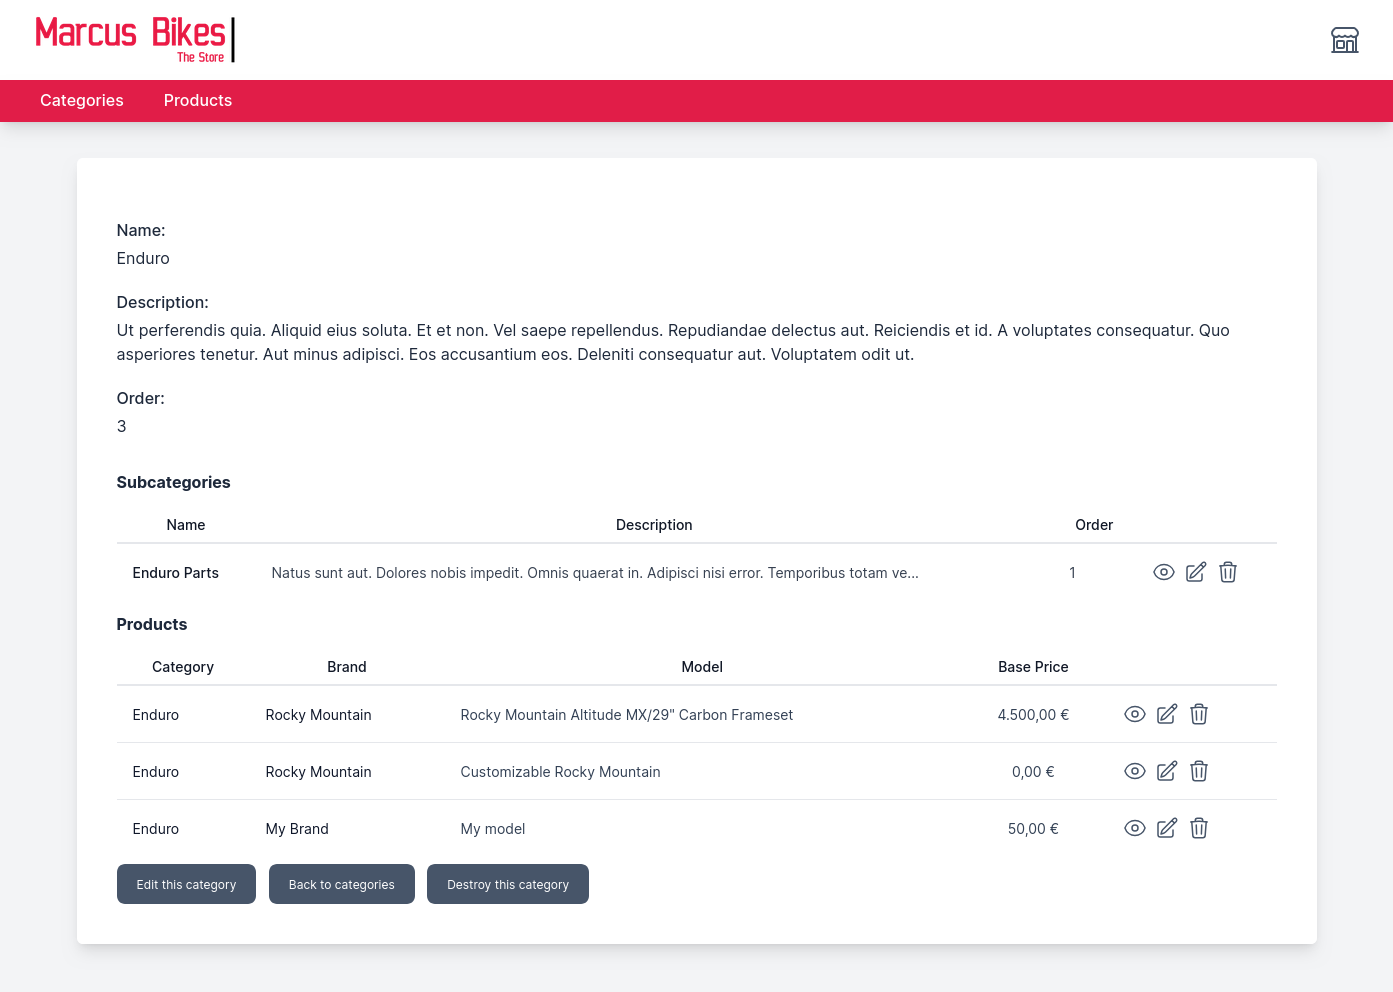
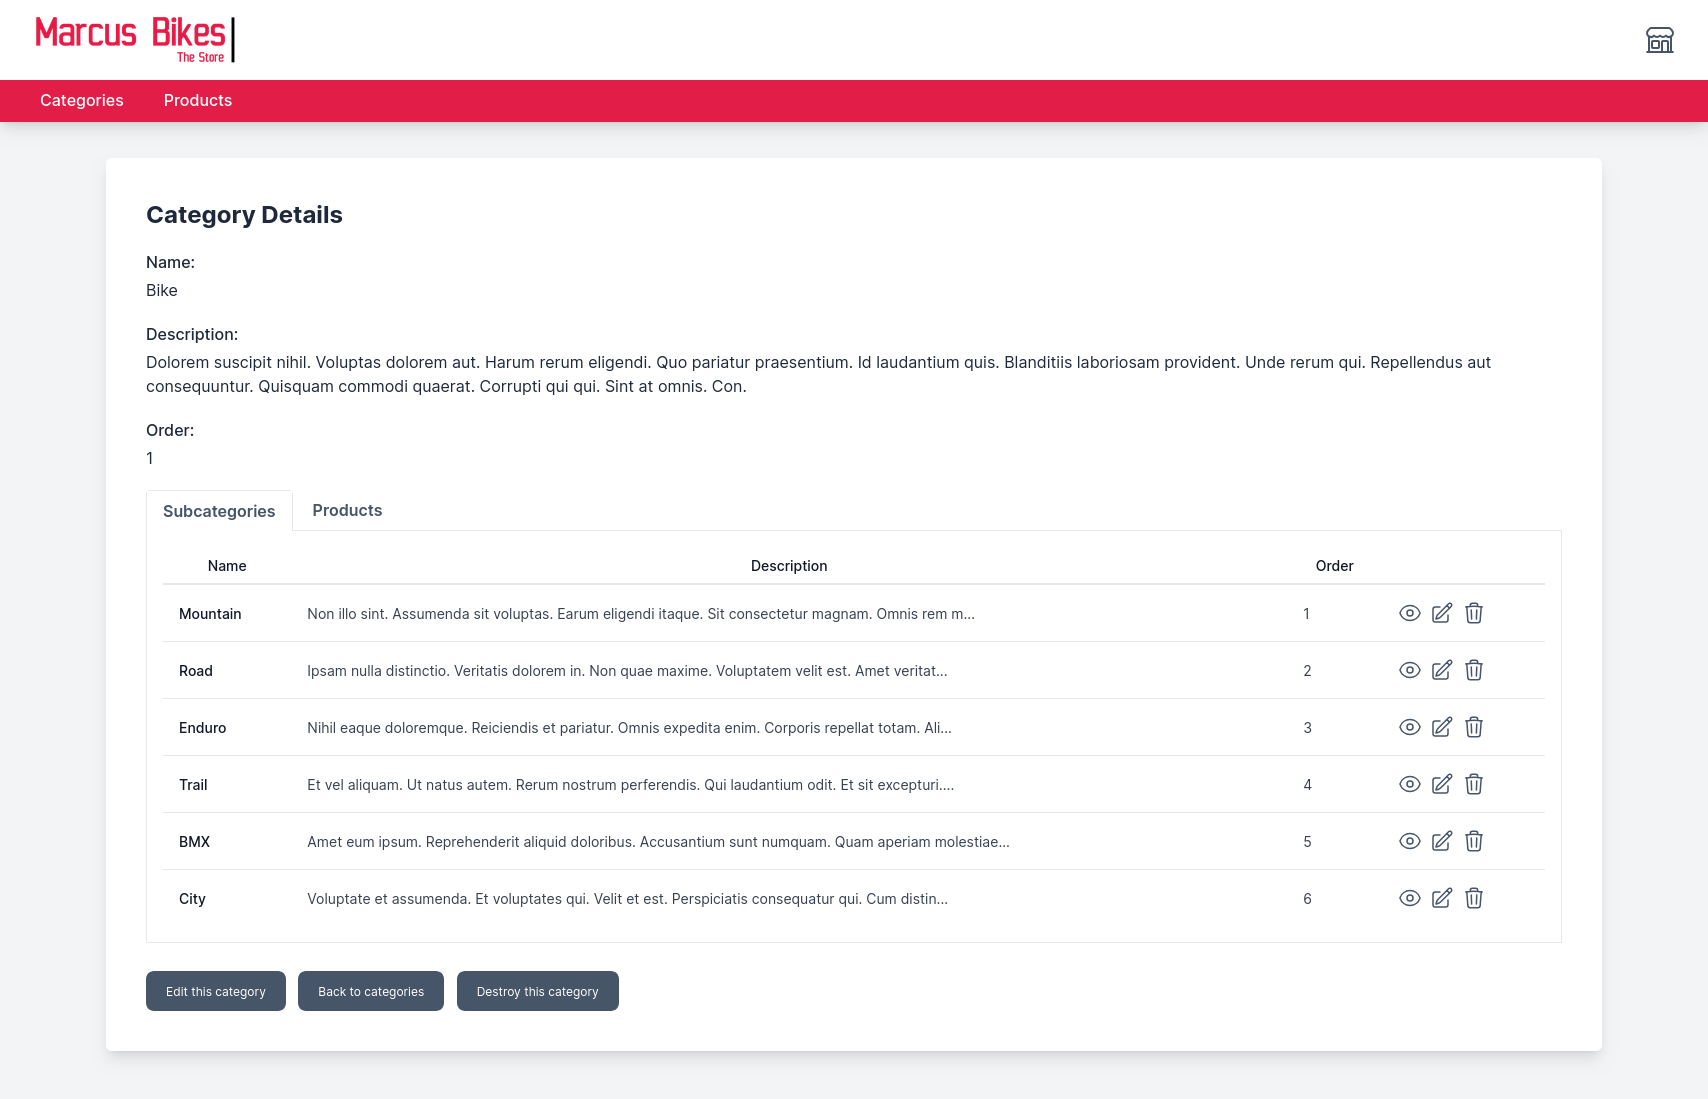
Add more to the README. Use tabs for show pages in the admin

diff --git a/README.md b/README.md
@@ -28,8 +28,13 @@ Here you have an index of the sections of this README document:
     - [Remove cart item](#remove-cart-item)
   - [Administrative workflows](#administrative-workflows)
     - [Categories](#categories)
+    - [See category details](#see-category-details)
+    - [Edit a category](#edit-a-category)
+    - [Create a category](#create-a-category)
     - [Products](#products)
-    - [New product creation](#new-product-creation)
+    - [See product details](#see-product-details)
+    - [Edit a product](#edit-a-product)
+    - [Create a product](#create-a-product)
     - [Adding a new part choice](#adding-a-new-part-choice)
     - [Setting prices](#setting-prices)
 - [Improvements](#improvements)
@@ -832,13 +837,19 @@ If Marcus clicks on the "Categories" link of the navigation menu, the browser wi
 
 ![Categories Admin index](doc/assets/admin_categories_index.png)
 
-If Marcus shows a Category details page it will look like this, also shows the related categories and products if any:
+#### See category details
+
+If Marcus shows a Category details page it will look like this, also shows the related categories and products if any inside tabs:
 
 ![Categories Admin show](doc/assets/admin_categories_show.png)
+
+#### Edit a category
 
 If Marcus edits a Category the form will look like this:
 
 ![Categories Admin edit](doc/assets/admin_categories_edit.png)
+
+#### Create a category
 
 And if he wants to add a new one it will look empty like this:
 
@@ -846,15 +857,50 @@ And if he wants to add a new one it will look empty like this:
 
 #### Products
 
-#### New product creation
+If Marcus clicks on the "Products" link of the navigation menu, the browser will land in the index of the products to be administrated. There Marcus can see a product info in full detail, edit it or even destroy it. This page will look like this:
+
+![Products Admin index](doc/assets/admin_products_index.png)
+
+#### See product details
+
+If Marcus shows a Product details page it will look like this, also shows the related information fort its customization, attributes, banned combinations and price changes if any inside tabs:
+
+![Product Admin show](doc/assets/admin_product_show.png)
+
+#### Edit a product
+
+If Marcus edits a Product the form will look like this:
+
+![Product Admin edit](doc/assets/admin_product_edit.png)
+
+#### Create a product
+
+And if he wants to add a new one it will look like this:
+
+![Product Admin new](doc/assets/admin_product_new.png)]
 
 * What information is required to create a new product? 
 
-  [PENDING]
+  A new product only requires their basic information:
+
+  * A category where it will be placed
+  * A brand name
+  * A model name
+  * A description
+  * A base price
+  * Enable the product in the catalog or not
+  * Inform if there is stock available
+  * Inform if it's considered customizable
+
+  Marcus could also fill in more information like:
+
+  * An image url
+  * The year of creation
 
 * How does the database change?
 
   [PENDING]
+
 
 #### Adding a new part choice
 
